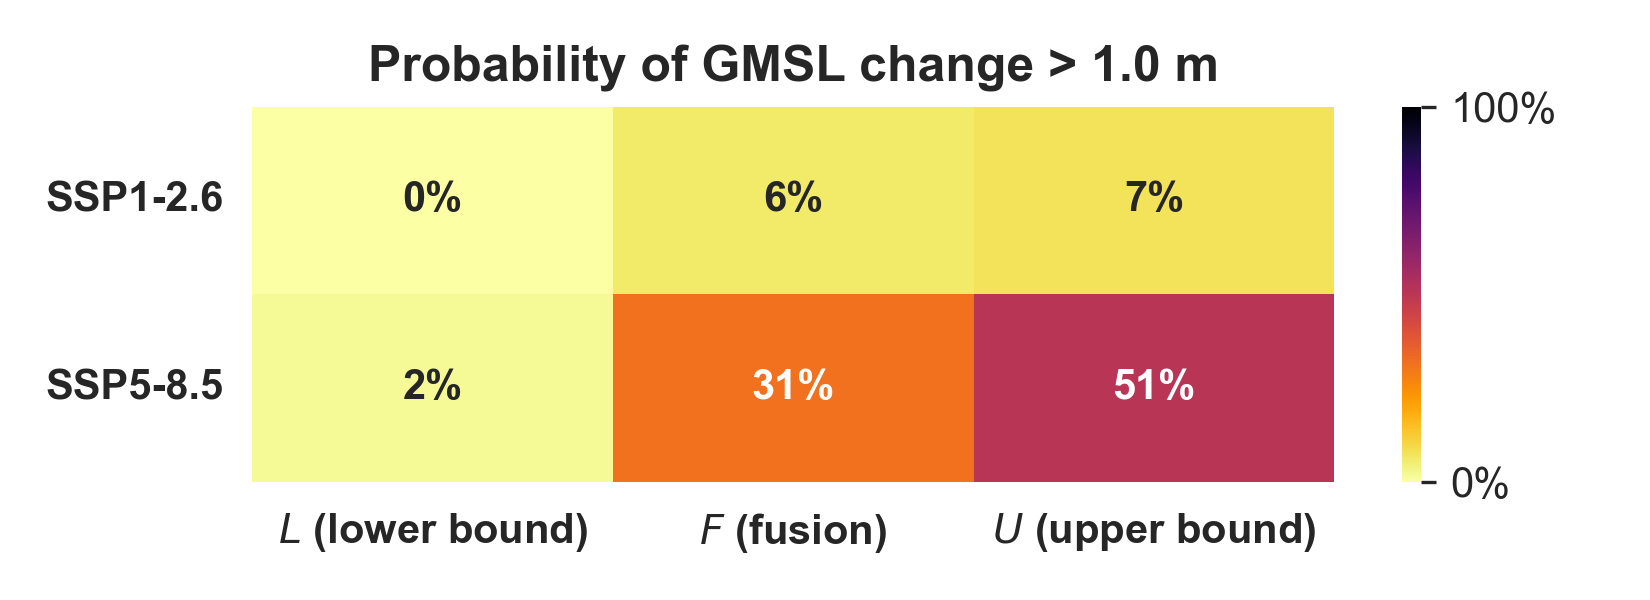
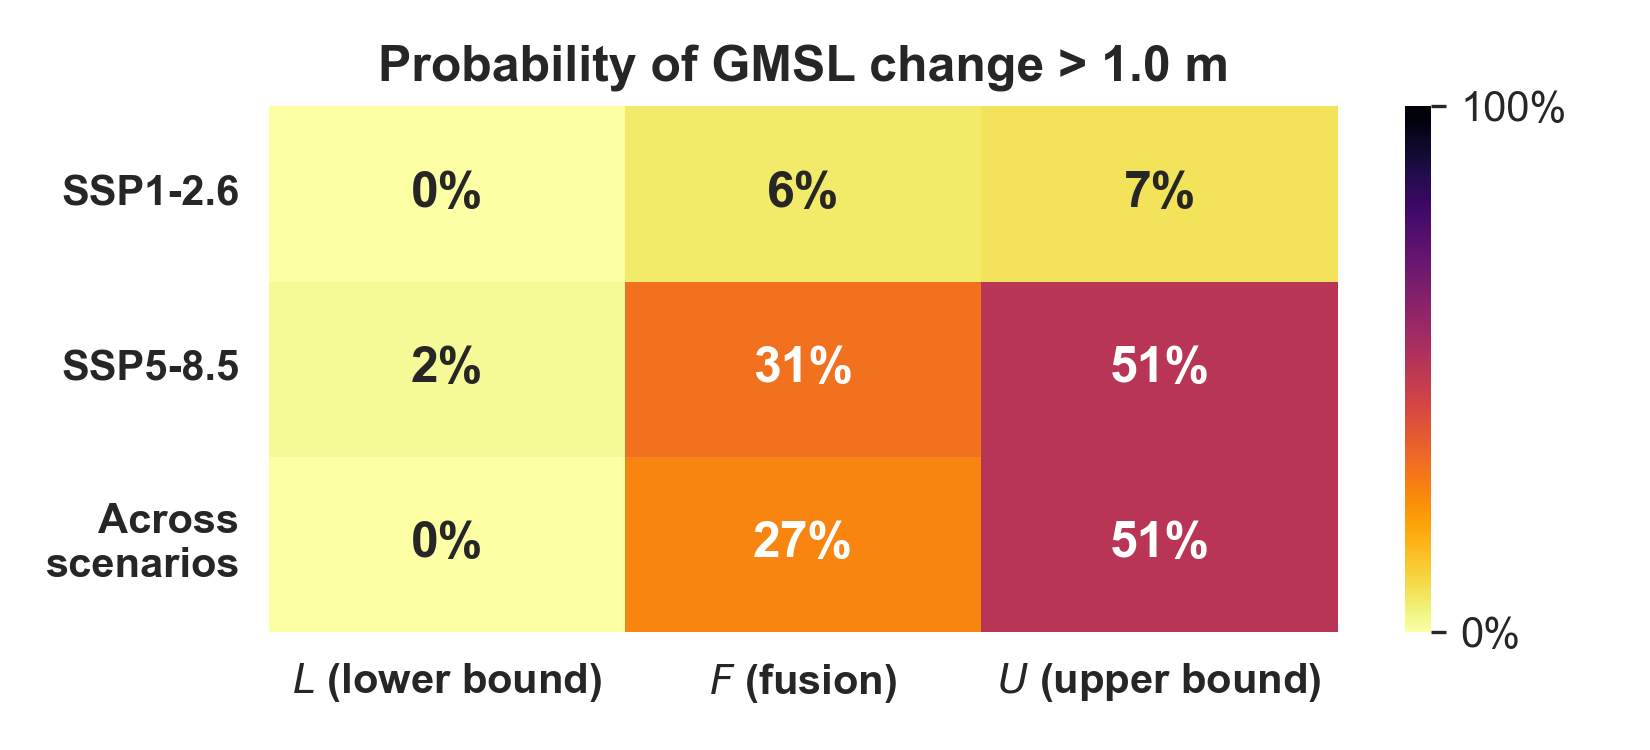
d23a.py: - get_sl_qf(): implementing scenario=‘both’, via changes to case 2 (lower and upper bounds) and case 5 (mean). - plot_sl_violinplot(): change default scenario to ‘both’. - plot_exceedance_heatmap(): include ‘both’ in default scenarios; modify fig and annotation size.

diff --git a/d23a.py b/d23a.py
@@ -53,7 +53,7 @@ WF_LABEL_DICT = {'wf_1e': '$W_1$ (workflow 1e)', 'wf_1f': '$W_1$ (workflow 1f)',
                  'fusion_1e+2e': '$F$ (fusion)', 'fusion_1f+2f': '$F$ (fusion)',
                  'fusion_2e': '$F_2e$ (fusion 2e)', 'fusion_2f': '$F_2$ (fusion 2f)', 'fusion_1e': '$F_1$ (fusion 1e)',
                  'conservative_1e+2e': '$F\'$ (conservative fusion)',}
-SSP_LABEL_DICT = {'ssp126': 'SSP1-2.6', 'ssp585': 'SSP5-8.5'}
+SSP_LABEL_DICT = {'ssp126': 'SSP1-2.6', 'ssp585': 'SSP5-8.5', 'both': 'Across\nscenarios'}
 SL_LABEL_DICT = {(False, False): 'GMSL change, m',  # axis labels etc depend on (rate, bool(gauge)) tuple
                  (False, True): 'RSL change, m',
                  (True, True): 'RSL rate, mm yr$^{-1}$'}
@@ -150,7 +150,7 @@ def get_sl_qf(workflow='wf_1e', rate=False, scenario='ssp585', year=2100, gauge=
     rate : bool
         If True, return rate of sea-level rise. If False (default), return sea-level rise.
     scenario : str
-        Options are 'ssp126' and 'ssp585' (default).
+        Options are 'ssp585' (default), 'ssp126', and 'both' (for p-box bound, mean, or fusion across scenarios).
     year : int
         Year. Default is 2100.
     gauge : int, str, or None.
@@ -198,16 +198,22 @@ def get_sl_qf(workflow='wf_1e', rate=False, scenario='ssp585', year=2100, gauge=
             wf_list = ['wf_1e', 'wf_2e', 'wf_3e', 'wf_4']
         else:
             wf_list = ['wf_1f', 'wf_2f', 'wf_3f', 'wf_4']
-        # Get quantile function data for each of these workflows
+        # Contributing scenarios
+        if scenario == 'both':
+            scen_list = ['ssp126', 'ssp585']
+        else:
+            scen_list = [scenario,]
+        # Get quantile function data for each of these workflows and scenarios
         qf_da_list = []
         for wf in wf_list:
-            qf_da_list.append(get_sl_qf(workflow=wf, rate=rate, scenario=scenario, year=year, gauge=gauge))
-        concat_da = xr.concat(qf_da_list, 'wf')
+            for scen in scen_list:
+                qf_da_list.append(get_sl_qf(workflow=wf, rate=rate, scenario=scen, year=year, gauge=gauge))
+        concat_da = xr.concat(qf_da_list, 'wf_scen')
         # Find lower or upper bound
         if workflow == 'lower':
-            qf_da = concat_da.min(dim='wf')
+            qf_da = concat_da.min(dim='wf_scen')
         else:
-            qf_da = concat_da.max(dim='wf')
+            qf_da = concat_da.max(dim='wf_scen')
     # Case 3: Outer bound of p-box
     elif workflow == 'outer':
         # Get data for lower and upper p-box bounds
@@ -230,12 +236,19 @@ def get_sl_qf(workflow='wf_1e', rate=False, scenario='ssp585', year=2100, gauge=
         qf_da = w * upper_da + (1 - w) * lower_da
     # Case 5: "mean" quantile function
     elif 'mean' in workflow:
-        # Get data for two workflows
-        wf1, wf2 = [f'wf_{s}' for s in workflow.split('_')[-1].split('+')]
-        wf1_da = get_sl_qf(workflow=wf1, rate=rate, scenario=scenario, year=year, gauge=gauge)
-        wf2_da = get_sl_qf(workflow=wf2, rate=rate, scenario=scenario, year=year, gauge=gauge)
-        # Derive mean distribution
-        qf_da = (wf1_da + wf2_da) / 2.
+        # Contributing scenarios
+        if scenario == 'both':
+            scen_list = ['ssp126', 'ssp585']
+        else:
+            scen_list = [scenario,]
+        # Get quantile function data for workflows and scenarios
+        qf_da_list = []
+        for wf in [f'wf_{s}' for s in workflow.split('_')[-1].split('+')]:
+            for scen in scen_list:
+                qf_da_list.append(get_sl_qf(workflow=wf, rate=rate, scenario=scen, year=year, gauge=gauge))
+        concat_da = xr.concat(qf_da_list, dim='wf_scen')
+        # Derive mean
+        qf_da = concat_da.mean(dim='wf_scen')
     # Case 6: fusion distribution
     elif 'fusion' or 'conservative' in workflow:
         # Get data for preferred workflow and outer bound of p-box
@@ -245,7 +258,7 @@ def get_sl_qf(workflow='wf_1e', rate=False, scenario='ssp585', year=2100, gauge=
             wf = f'wf_{workflow.split("_")[-1]}'
         pref_da = get_sl_qf(workflow=wf, rate=rate, scenario=scenario, year=year, gauge=gauge)
         outer_da = get_sl_qf(workflow='outer', rate=rate, scenario=scenario, year=year, gauge=gauge)
-        # Triangular weighting function, with weights depending on probability p
+        # Weighting function, with weights depending on probability p
         if 'conservative' in workflow:
             w_da = get_fusion_weights(weighting='conservative')
         else:
@@ -282,7 +295,7 @@ def sample_sl_marginal(workflow='wf_1e', rate=False, scenario='ssp585', year=210
     rate : bool
         If True, return rate of sea-level rise. If False (default), return sea-level rise.
     scenario : str
-        Options are 'ssp126' and 'ssp585' (default).
+        Options are 'ssp126', 'ssp585' (default), and 'both'.
     year : int
         Year. Default is 2100.
     gauge : int, str, or None.
@@ -376,7 +389,7 @@ def plot_sl_qfs(workflows=('wf_1e', 'wf_2e', 'wf_3e', 'wf_4'), bg_workflows=list
     rate : bool
         If True, return rate of sea-level rise. If False (default), return sea-level rise.
     scenario : str
-        Options are 'ssp126' and 'ssp585' (default).
+        Options are 'ssp126', 'ssp585' (default), and 'both'.
     year : int
         Year. Default is 2100.
     gauge : int, str, or None.
@@ -432,7 +445,7 @@ def plot_sl_marginals(workflows=('wf_1e', 'wf_2e', 'wf_3e', 'wf_4'), bg_workflow
     rate : bool
         If True, return rate of sea-level rise. If False (default), return sea-level rise.
     scenario : str
-        Options are 'ssp126' and 'ssp585' (default).
+        Options are 'ssp126', 'ssp585' (default), and 'both'.
     year : int
         Year. Default is 2100.
     gauge : int, str, or None.
@@ -465,7 +478,7 @@ def plot_sl_marginals(workflows=('wf_1e', 'wf_2e', 'wf_3e', 'wf_4'), bg_workflow
 
 
 def plot_sl_violinplot(workflows=('wf_2e', 'fusion_1e+2e', 'outer'),
-                       rate=False, scenario='ssp585', year=2100, gauge=None, annotations=True, ax=None):
+                       rate=False, scenario='both', year=2100, gauge=None, annotations=True, ax=None):
     """
     Plot violinplot of marginal densities corresponding to projections of total sea level.
 
@@ -477,7 +490,7 @@ def plot_sl_violinplot(workflows=('wf_2e', 'fusion_1e+2e', 'outer'),
     rate : bool
         If True, return rate of sea-level rise. If False (default), return sea-level rise.
     scenario : str
-        Options are 'ssp126' and 'ssp585' (default).
+        Options are 'ssp126', 'ssp585', and 'both' (default).
     year : int
         Year. Default is 2100.
     gauge : int, str, or None.
@@ -536,7 +549,7 @@ def plot_sl_violinplot(workflows=('wf_2e', 'fusion_1e+2e', 'outer'),
 
 
 def plot_exceedance_heatmap(threshold=1.5, workflows=('lower', 'fusion_1e+2e', 'upper'), rate=False,
-                            scenarios=('ssp126', 'ssp585'), year=2100, gauge=None, ax=None):
+                            scenarios=('ssp126', 'ssp585', 'both'), year=2100, gauge=None, ax=None):
     """
     Plot heatmap table showing probability of exceeding a sea-level threshold.
 
@@ -550,7 +563,7 @@ def plot_exceedance_heatmap(threshold=1.5, workflows=('lower', 'fusion_1e+2e', '
     rate : bool
         If True, return rate of sea-level rise. If False (default), return sea-level rise.
     scenarios : list str
-        List containing scenarios, for table rows. Default is ('ssp126', 'ssp585').
+        List containing scenarios, for table rows. Default is ('ssp126', 'ssp585', 'both').
     year : int
         Year. Default is 2100.
     gauge : int, str, or None.
@@ -564,7 +577,7 @@ def plot_exceedance_heatmap(threshold=1.5, workflows=('lower', 'fusion_1e+2e', '
     """
     # Create figure if ax is None
     if not ax:
-        fig, ax = plt.subplots(1, 1, figsize=(5, 1), tight_layout=True)
+        fig, ax = plt.subplots(1, 1, figsize=(5.5, 2.5), tight_layout=True)
     # For each combination of workflow and scenario, save probability of exceeding threshold to DataFrame
     p_exceed_df = pd.DataFrame()
     for workflow in workflows:
@@ -574,7 +587,7 @@ def plot_exceedance_heatmap(threshold=1.5, workflows=('lower', 'fusion_1e+2e', '
             p_exceed_df.loc[SSP_LABEL_DICT[scenario], WF_LABEL_DICT[workflow]] = p_exceed
     # Plot heatmap
     sns.heatmap(p_exceed_df, annot=True, fmt='.0%', cmap='inferno_r', vmin=0., vmax=1.,
-                annot_kws={'weight': 'bold'}, ax=ax)
+                annot_kws={'weight': 'bold', 'fontsize': 'large'}, ax=ax)
     # Change colorbar labels to percentage
     cbar = ax.collections[0].colorbar
     cbar.set_ticks([0., 1.])
@@ -664,7 +677,7 @@ def fig_qfs_marginals(workflows_r=(('wf_1e', 'wf_2e', 'wf_3e', 'wf_4'), ('outer'
     rate : bool
         If True, return rate of sea-level rise. If False (default), return sea-level rise.
     scenario : str
-        Options are 'ssp126' and 'ssp585' (default).
+        Options are 'ssp126', 'ssp585' (default), and 'both'.
     year : int
         Year. Default is 2100.
     gauge : int, str, or None.
